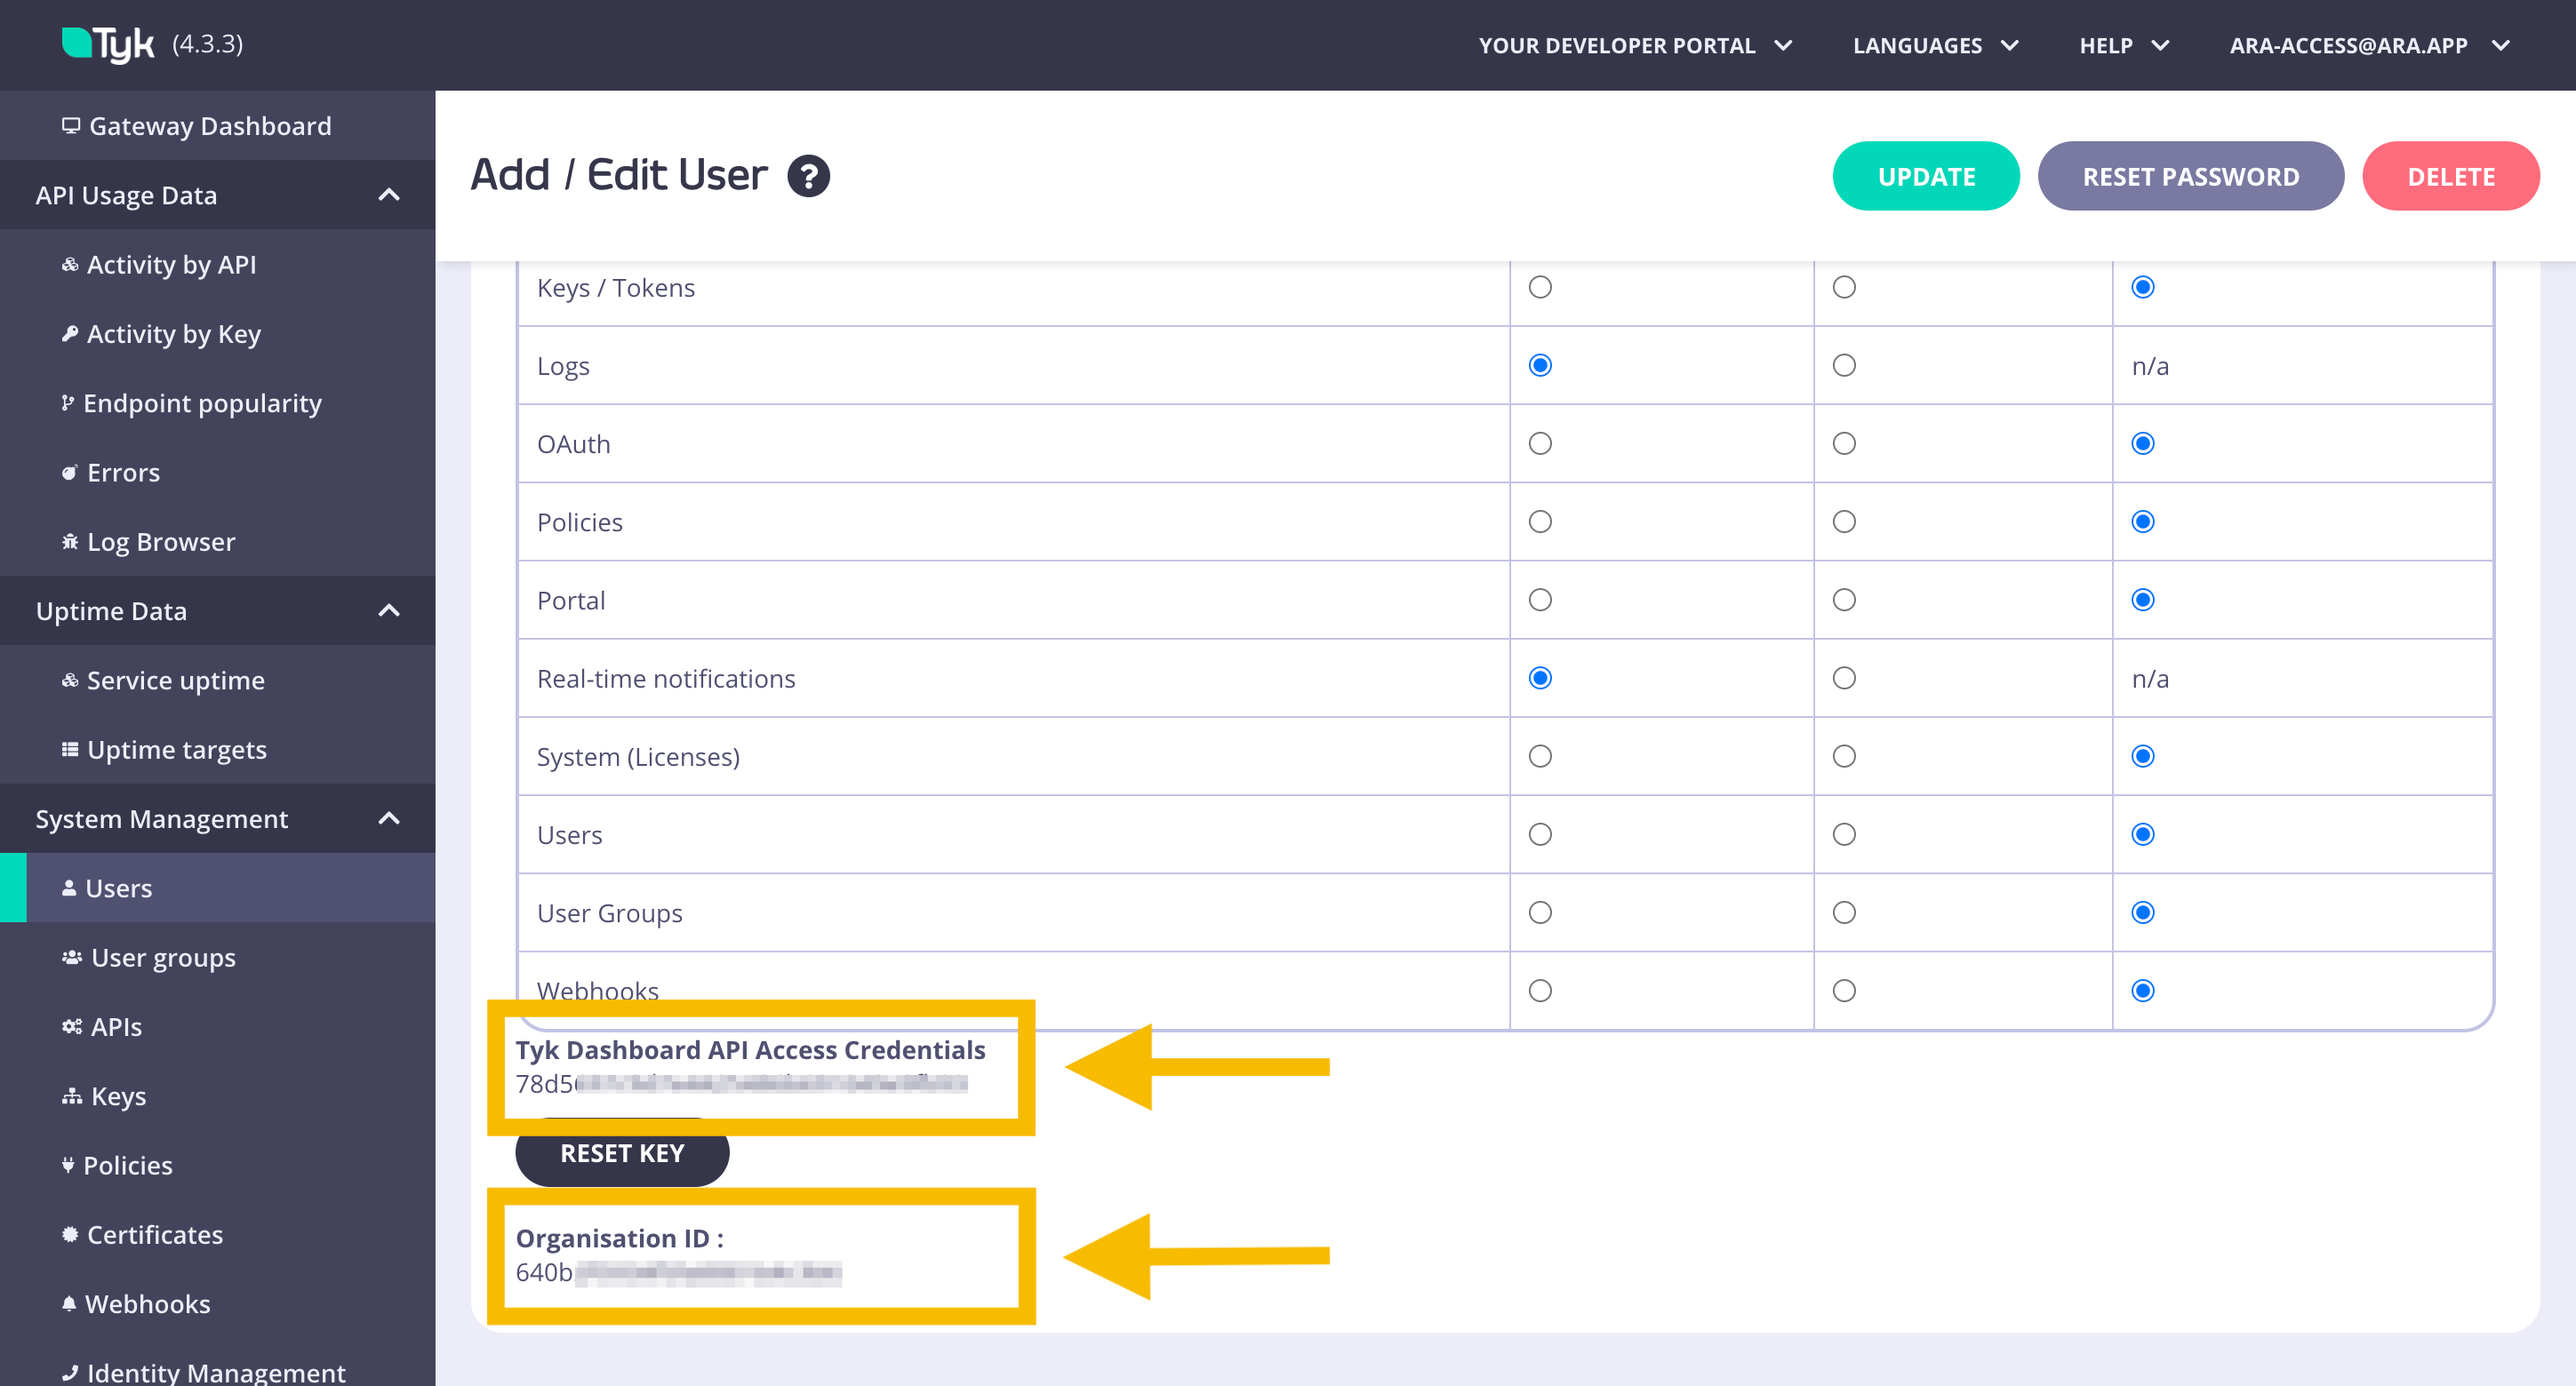
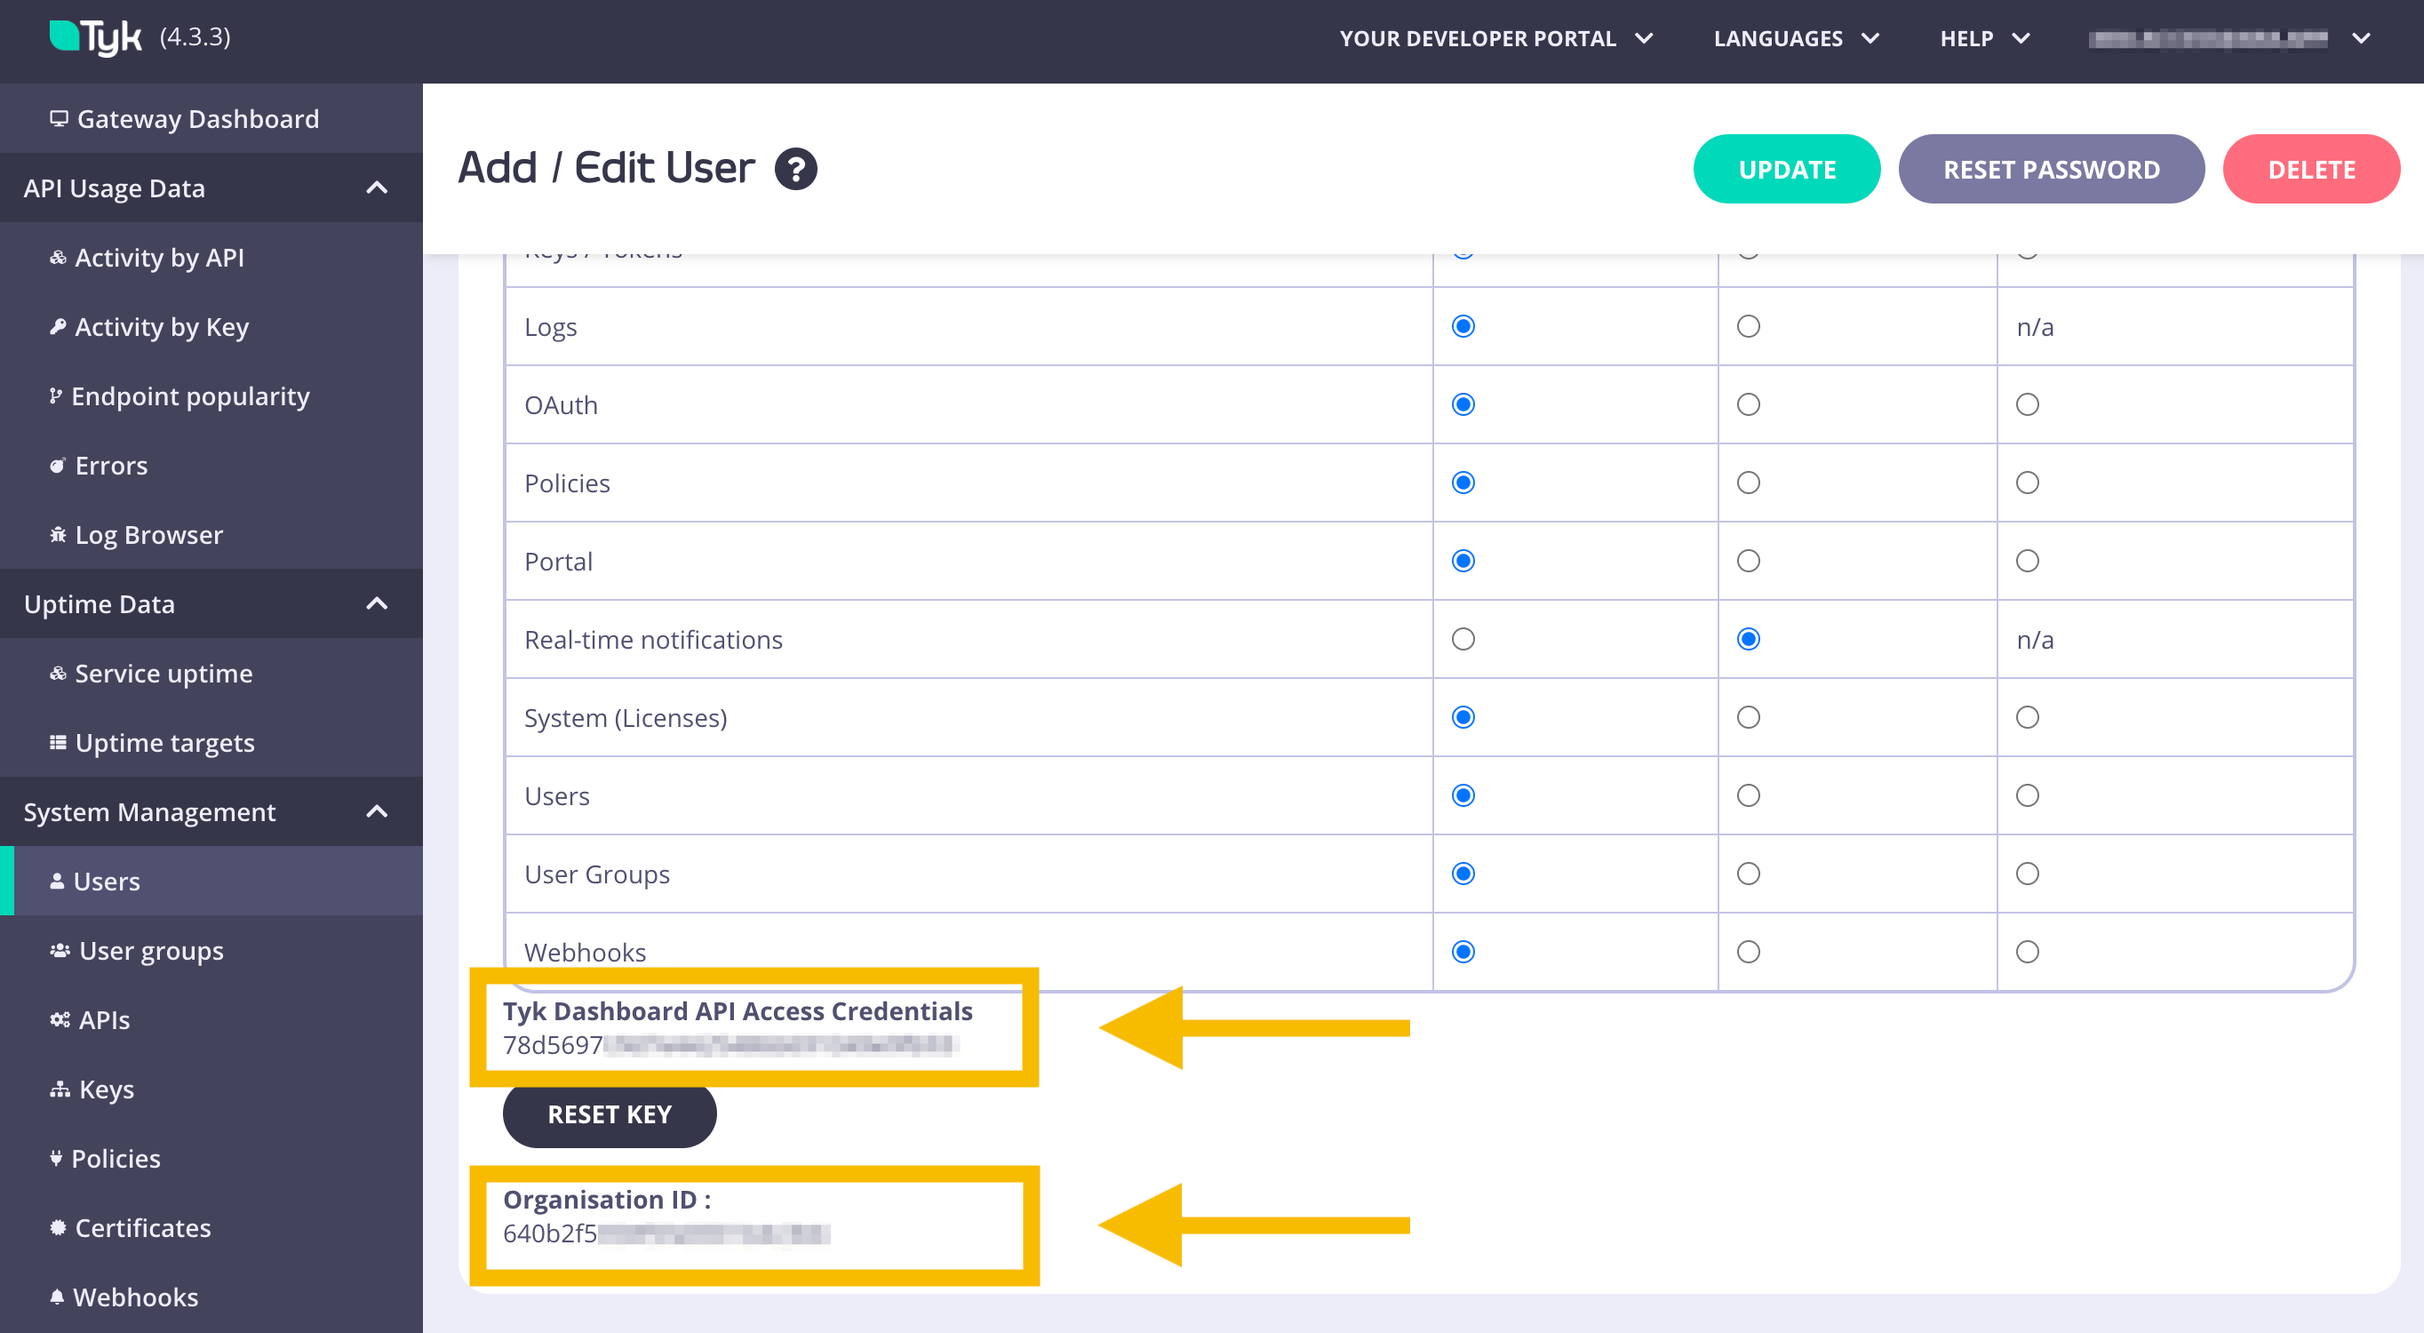
update
updated pictures
added permissions

diff --git a/tyk-docs/content/tyk-cloud/environments-deployments/hybrid-gateways.md b/tyk-docs/content/tyk-cloud/environments-deployments/hybrid-gateways.md
@@ -26,13 +26,13 @@ This page describes the deployment of hybrid data planes and how to connect them
 Before deploying your data plane, you will need to prepare the connection details to the control plane:
 * **Tyk Dashboard API Access Credentials**: `api_key` setting in Docker, `gateway.rpc.apiKey` in helm
 * **Organisation ID**: `rpc_key` setting in Docker, `gateway.rpc.rpcKey` in helm 
-* **MDCB connection string**: `gateway.rpc.connString` setting in helm
+* **MDCB connection string**: `connection_string` setting in Docker, `gateway.rpc.connString` setting in helm
 
 You need first to create a user that will be able to connect to the control plane. Go to the API Manager Dashboard. 
 
   {{< img src="/img/hybrid-gateway/tyk-cloud-dashboard-api-manager.png" alt="API Manager Dashboard" >}}
 
-  - Within the API Manager Dashboard, select or create a user to be used as the login from your Hybrid gateways with the following permissions: **TBD**
+  - Within the API Manager Dashboard, select or create a user to be used as the login from your Hybrid gateways with `Real time notifications` as **read** permission.
 
   {{< img src="/img/hybrid-gateway/tyk-cloud-dashboard-api-manager-user.png" alt="API Manager Dashboard" >}}
 
@@ -41,23 +41,23 @@ You need first to create a user that will be able to connect to the control plan
 
   {{< img src="/img/hybrid-gateway/tyk-cloud-dashboard-api-manager-user-key.png" alt="API Manager Dashboard" >}}
 
-Then retrieve the MDCB connection string for the gateways to connect to your control plane. You can find it on the control plane page in Tyk Cloud: 
+That's all you need from the Tyk Manager. Go back to Tyk Cloud Console and retrieve the MDCB connection string for the gateways to connect to your control plane: 
 
 {{< img src="/img/hybrid-gateway/tyk-cloud-hybrid-connection-control-plane.png" alt="MDCB connection string for the gateways to connect to your control plane" >}}
 
-Copy this **MDCB connection string** for later use (`gateway.rpc.connString` setting in helm).
+Copy this **MDCB connection string** for later use (`connection_string` setting in Docker, `gateway.rpc.connString` setting in helm).
 
 
 ## Deploy with Docker
 
-**1. In your console, clone the demo application [Tyk Gateway Docker](https://github.com/TykTechnologies/tyk-gateway-docker) repository**
+### 1. In your console, clone the demo application [Tyk Gateway Docker](https://github.com/TykTechnologies/tyk-gateway-docker) repository
 
 ```bash
 git clone https://github.com/TykTechnologies/tyk-gateway-docker.git
 ```
 
 
-**2. Configure Tyk Gateway and its connection to Tyk Cloud**
+### 2. Configure Tyk Gateway and its connection to Tyk Cloud
 
 You need to modify the following values in [tyk.hybrid.conf](https://github.com/TykTechnologies/tyk-gateway-docker#hybrid) configuration file: 
 
@@ -87,7 +87,7 @@ You need to modify the following values in [tyk.hybrid.conf](https://github.com/
 }
 ```
 
-**3. Configure the connection to redis**
+### 3. Configure the connection to redis
 
 This example comes with a redis instance pre-configured and deployed with Docker compose. If you want to use another redis instance, you will have to update the `storage` part of [tyk.hybrid.conf](https://github.com/TykTechnologies/tyk-gateway-docker#hybrid):
 
@@ -106,7 +106,7 @@ This example comes with a redis instance pre-configured and deployed with Docker
 }
 ```
 
-**4. Update docker compose file**
+### 4. Update docker compose file
 
 Edit the <docker-compose.yml> file to to use the [tyk.hybrid.conf](https://github.com/TykTechnologies/tyk-gateway-docker#hybrid) that you have just configured.
 
@@ -121,7 +121,7 @@ To:
 - ./tyk.hybrid.conf:/opt/tyk-gateway/tyk.conf
 ```
 
-**4. Run docker compose**
+### 5. Run docker compose
 
 Run the followng:
 
@@ -131,7 +131,7 @@ docker compose up -d
 
 You should now have two running containers, a Gateway and a Redis.
 
-**5. Check that the gateway is up and running**
+### 6. Check that the gateway is up and running
 
 Call the /hello endpoint using curl from your terminal (or any other HTTP client):
 
@@ -150,10 +150,9 @@ Content-Length: 59
 {"status":"pass","version":"4.3.3","description":"Tyk GW"}
 ```
 
-
 ## Deploy in Kubernetes with Helm
 
-**1. Add the Tyk official Helm repo `tyk-helm` to your local Helm registry**
+### 1. Add the Tyk official Helm repo `tyk-helm` to your local Helm registry
 
 ```bash
 helm repo add tyk-helm https://helm.tyk.io/public/helm/charts/
@@ -162,13 +161,13 @@ helm repo update
 
 The helm charts are also available on [ArtifactHub](https://artifacthub.io/packages/helm/tyk-helm/tyk-hybrid).
 
-**2. Then create a new namespace that will be hosting the Tyk Gateways**
+### 2. Then create a new namespace that will be hosting the Tyk Gateways
 
 ```bash
 kubectl create namespace tyk
 ```
 
-**3. Get the template yaml for configuration**
+### 3. Get the template yaml for configuration
 
 Before proceeding with installation of the chart we need to set some custom values. First save the full original values.yaml to a local copy:
 
@@ -176,10 +175,9 @@ Before proceeding with installation of the chart we need to set some custom valu
 helm show values tyk-helm/tyk-hybrid > values.yaml
 ```
 
-**4. Configure Tyk Gateway and its connection to Tyk Cloud**
+### 4. Configure Tyk Gateway and its connection to Tyk Cloud
 
 You need to modify the following values in your custom `values.yaml` file: 
-
 
 * `gateway.rpc.apiKey`: Tyk Dashboard API Access Credentials of the user created ealier
 * `gateway.rpc.rpcKey`: Organisation ID 
@@ -187,7 +185,7 @@ You need to modify the following values in your custom `values.yaml` file:
 * *(optional)* `group_id`: if you have multiple data plane (e.g. in different regions), specify the data plane group (string) to which the gateway you are deploying belong. The data planes in the same group share one redis instance.
 * *(optional)* `gateway.sharding.enabled` and `gateway.sharding.tags`: you can enable sharding to selectively load APIs to specific gateways, using tags
 
-**5. Configure the connection to redis**
+### 5. Configure the connection to redis
 
 You can connect the gateway to any Redis instance already deployed (as DBaaS or hosted in your private infrastructure). 
 
@@ -214,7 +212,7 @@ You need to modify the following values in your custom `values.yaml` file:
 * `redis.pass`: password set in redis (`$REDIS_PASSWORD`)
 
 
-**6. Install the helm chart**
+### 6. Install the helm chart
 
 Install the chart using the configured custom values file:
 
@@ -229,7 +227,7 @@ At this point, Tyk Hybrid is fully installed and should be accessible.
 ```
 
 
-**7. Check that the installation was successful**
+### 7. Check that the installation was successful
 
 The hybrid data planes are not yet visible in Tyk Cloud (coming soon!). Here is how you can check that the deployment was successfull.
 
